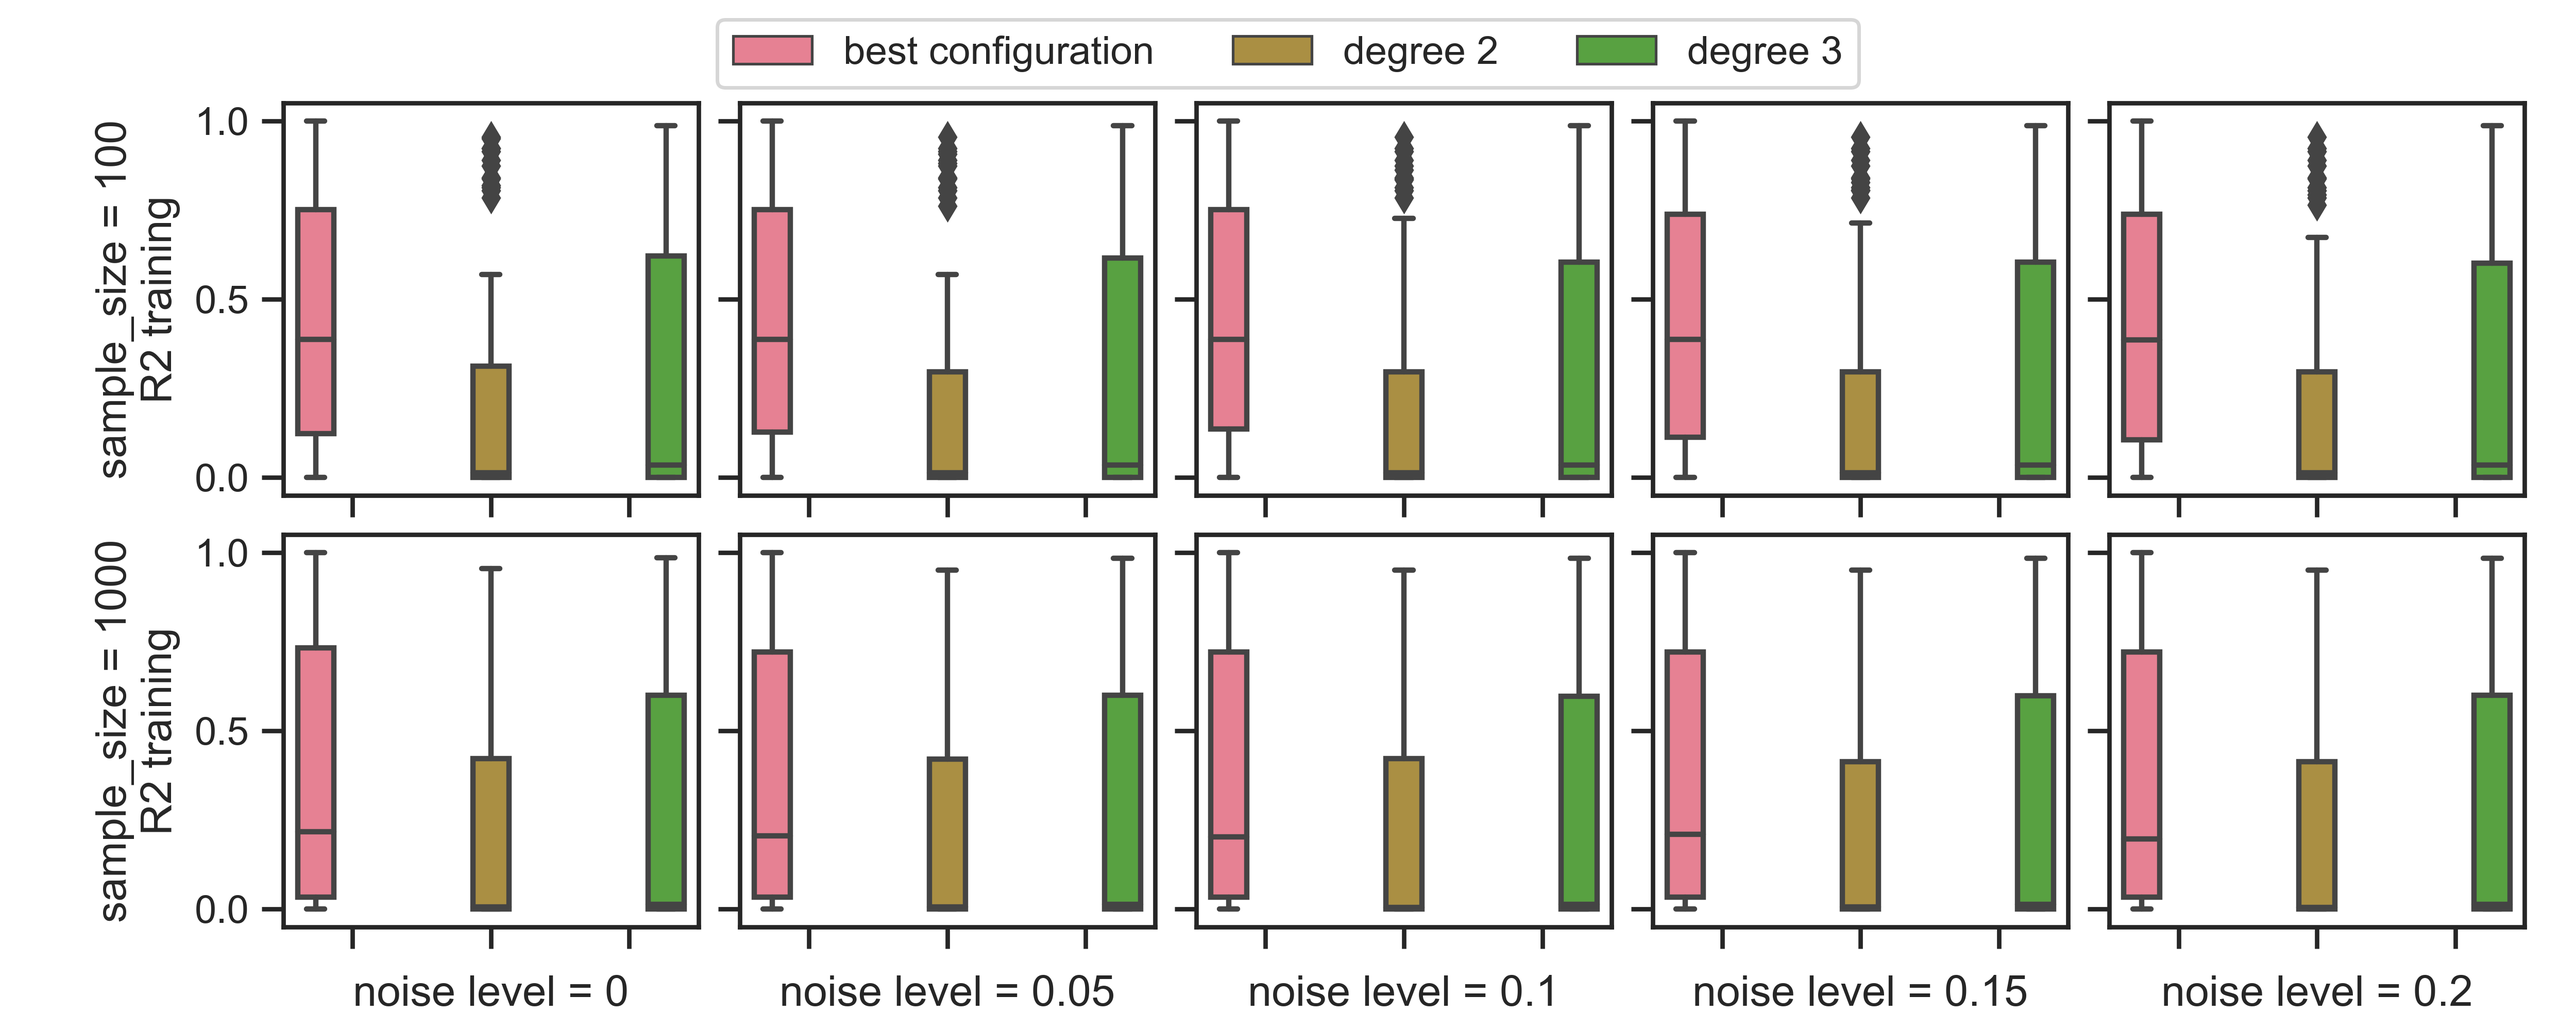
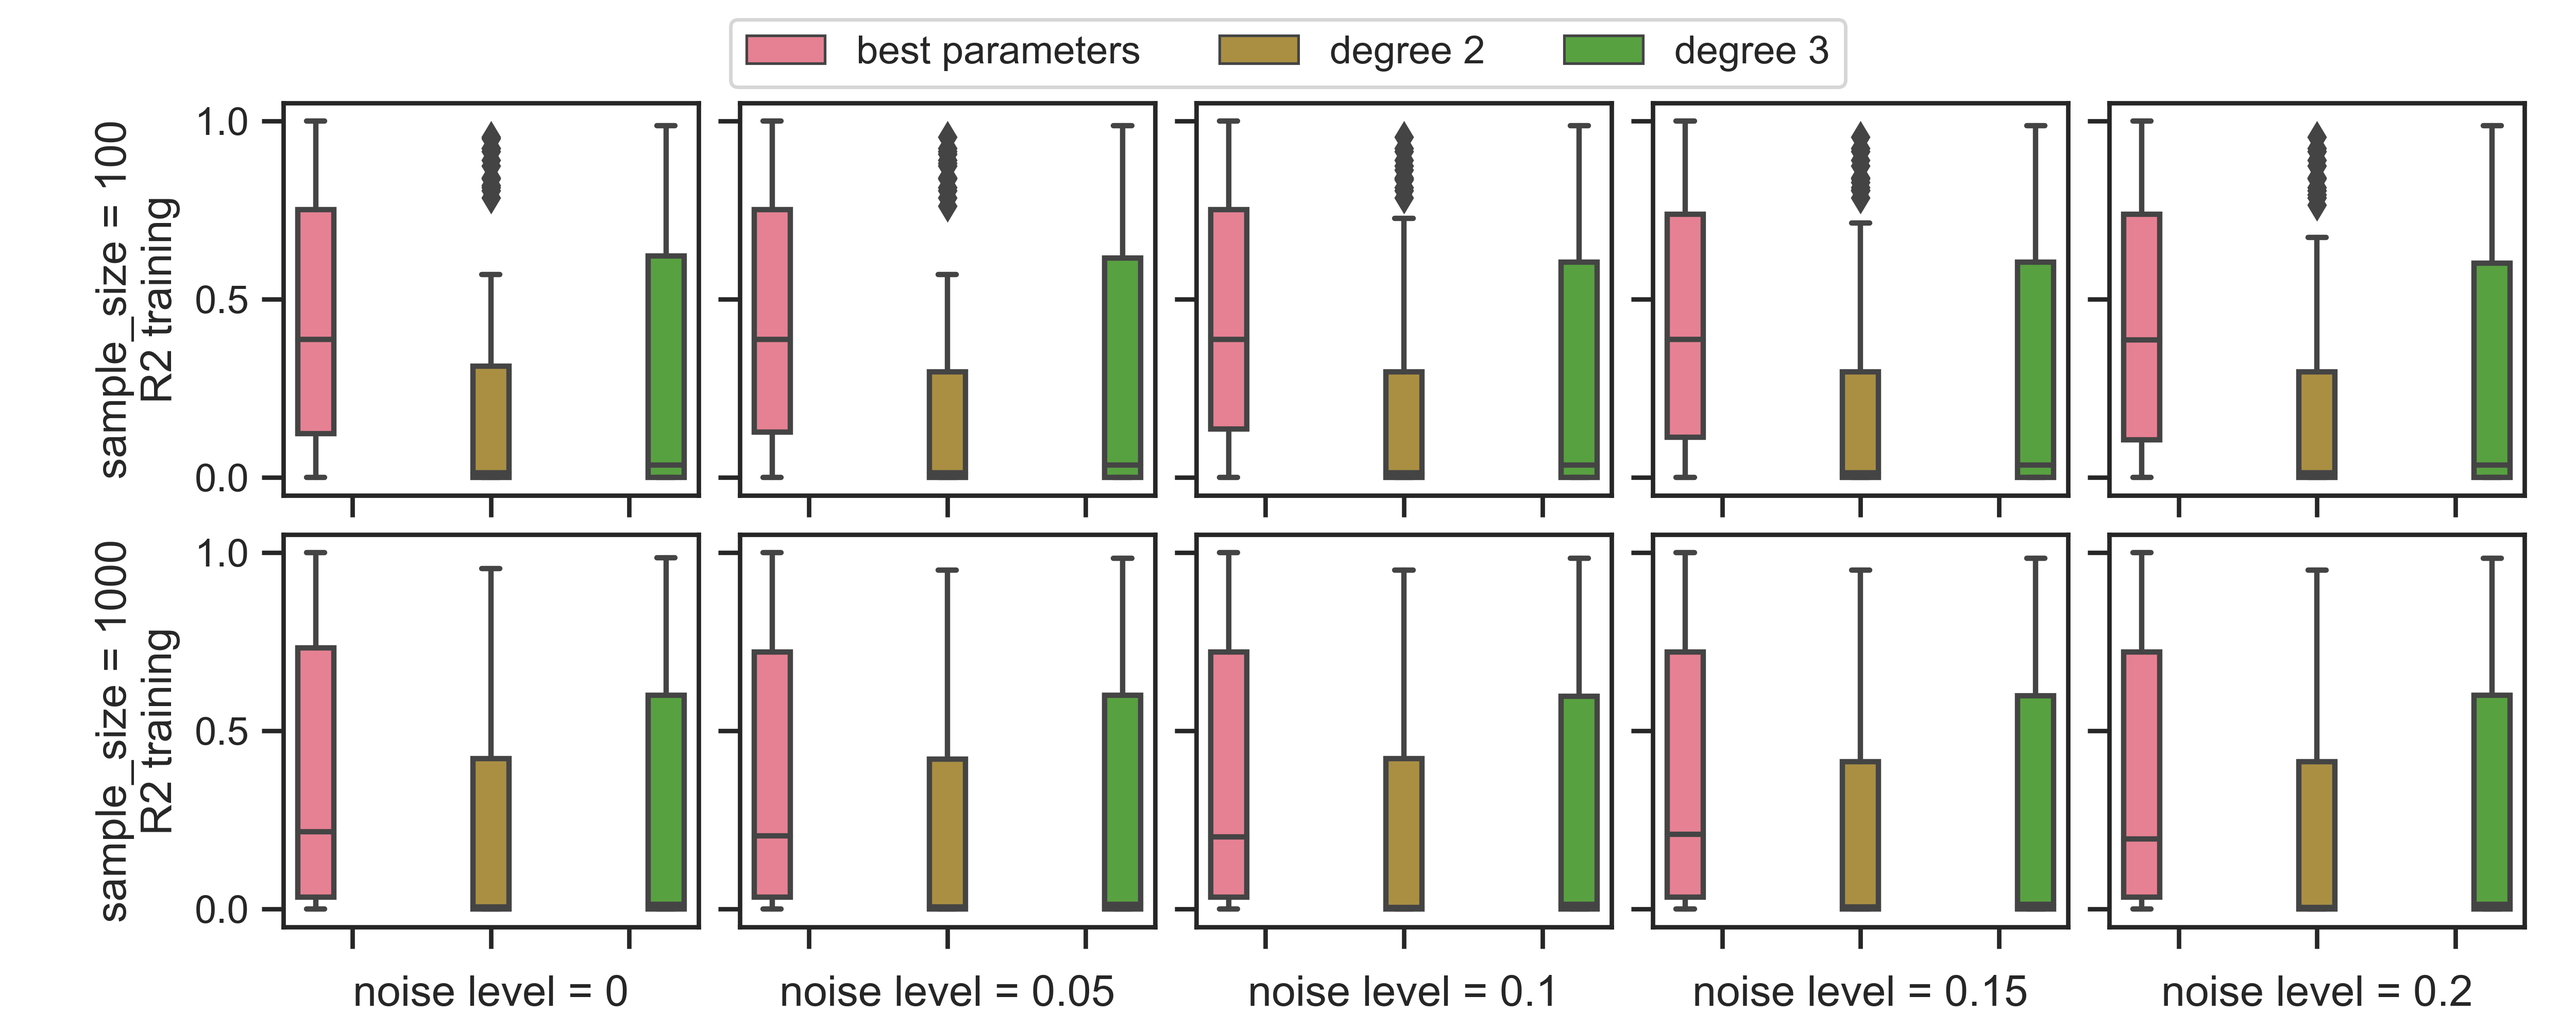
report on runtime, replace plot labels

Changed region(s): [[0.2808, 0.031, 0.7176, 0.062]]

diff --git a/experiments/7-analyze_results.py b/experiments/7-analyze_results.py
@@ -7,13 +7,18 @@ import pandas as pd
 import numpy as np
 
 summary_best = pd.read_csv('./experiments/repeated_best_config_results/summary_best.csv')
-summary_best['Configuration'] = ['best configuration'] * len(summary_best)
+summary_best['Configuration'] = ['best parameters'] * len(summary_best)
+print(f"average runtime [best configuration] {np.mean(summary_best[ summary_best['Successful'] == True]['Runtime'])}" )
 
 summary_degree2= pd.read_csv('./experiments/repeated_best_config_results/summary_degree2.csv')
 summary_degree2['Configuration'] = ['degree 2'] * len(summary_degree2)
+print(f"average runtime [degree 2] {np.mean(summary_degree2[ summary_degree2['Successful'] == True]['Runtime'])}" )
+
 
 summary_degree3 = pd.read_csv('./experiments/repeated_best_config_results/summary_degree3.csv')
 summary_degree3['Configuration'] = ['degree 3'] * len(summary_degree3)
+print(f"average runtime [degree 3] {np.mean(summary_degree3[ summary_degree3['Successful'] == True]['Runtime'])}" )
+
 
 summary = pd.concat([summary_best,summary_degree2, summary_degree3])
 summary['SampleSize'] = [ filename.split('sample_size')[1].split('_')[0] for filename in summary['DataSourceFile']]
